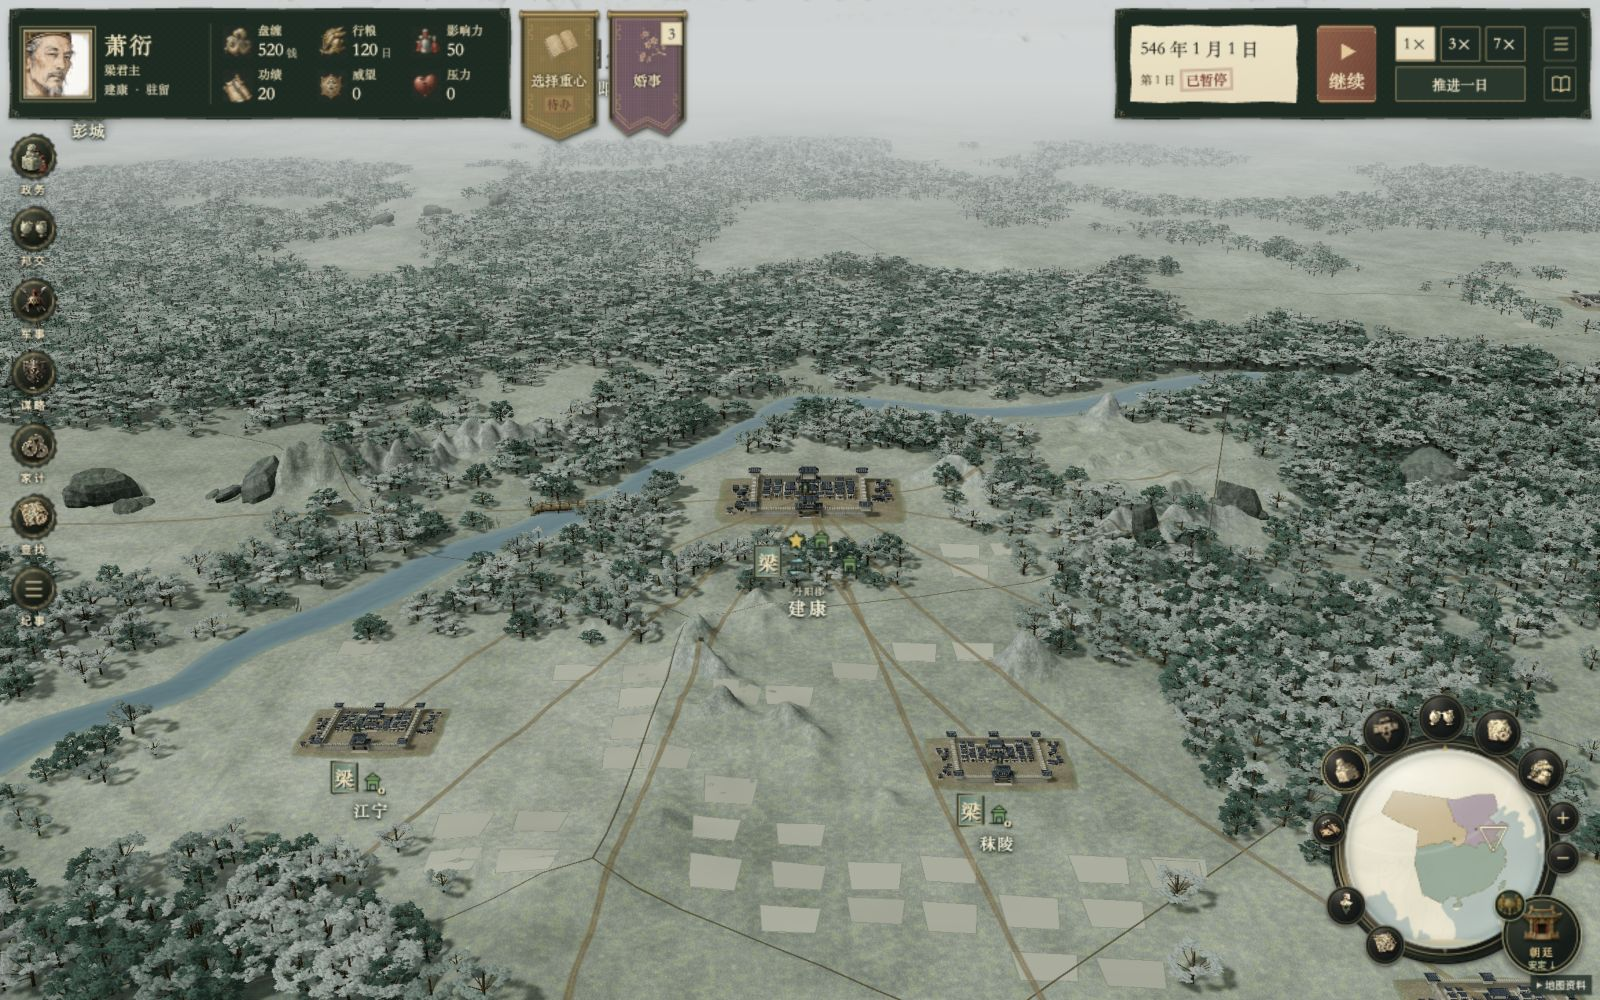
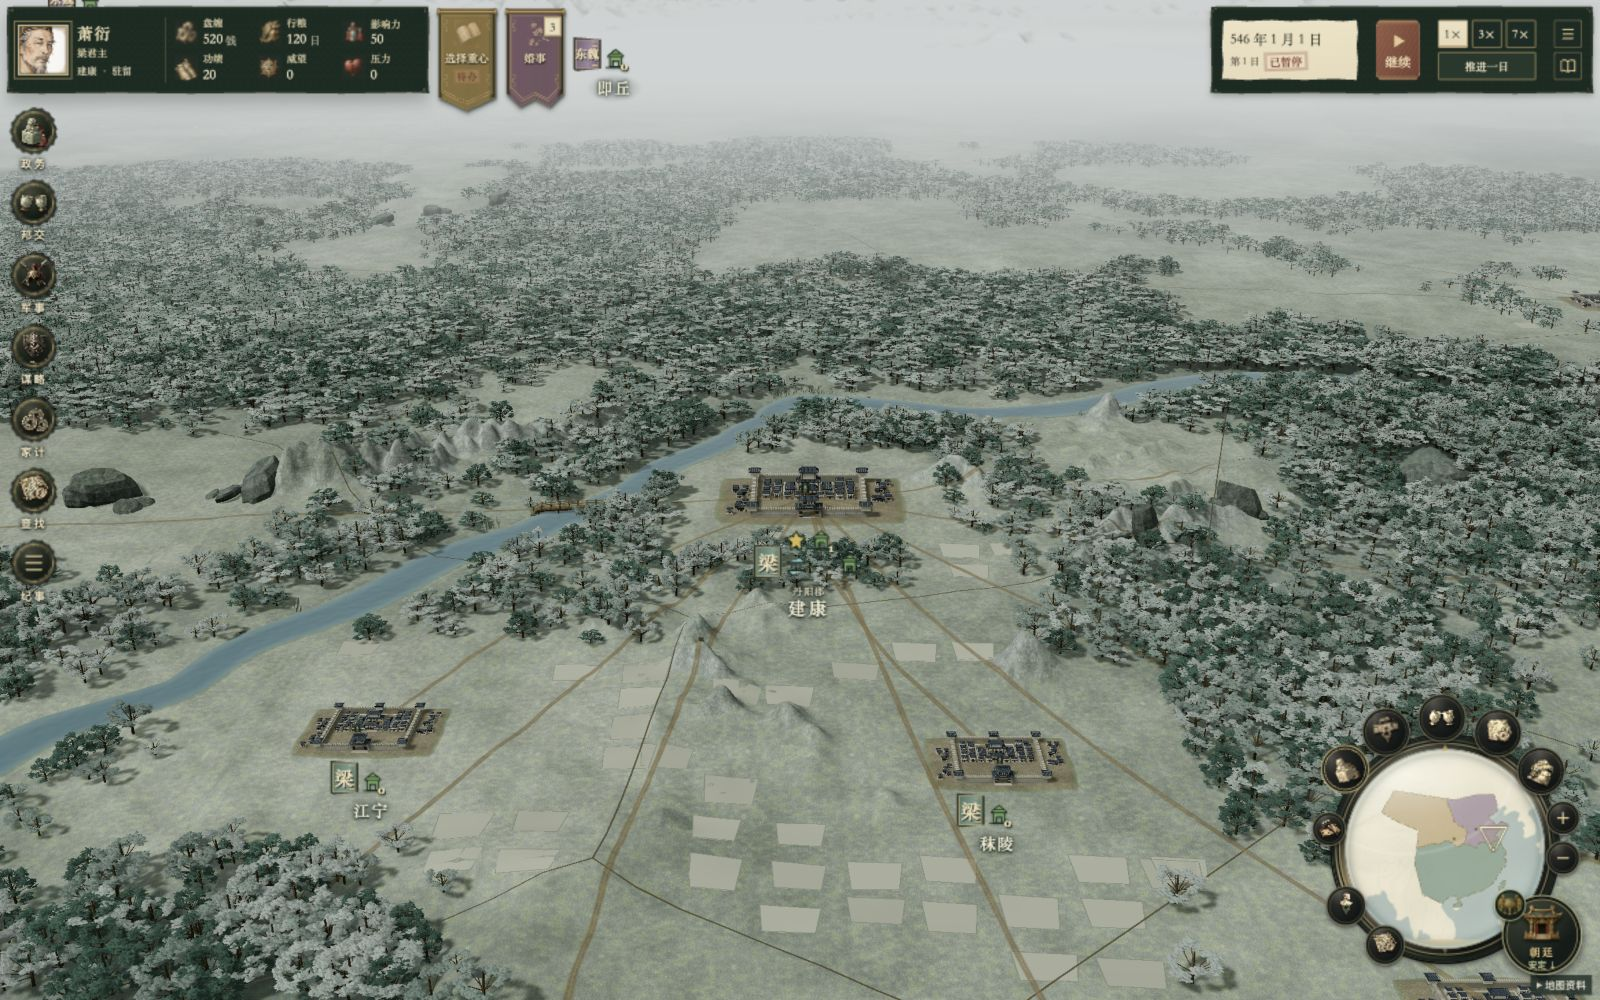
fix(ui): compact top HUD proportions and typography

Changed region(s): [[0.0, 0.0, 0.4375, 0.62], [0.6875, 0.0, 1.0, 0.124]]

diff --git a/src/ui/topHud.css b/src/ui/topHud.css
@@ -1,64 +1,65 @@
 /* Approved top-hud/components-v1: ink on cloth, calendar paper and restrained gilt. */
-.focused-shell :is(.sovereign-strip,.chronicle-control){top:10px;height:108px;min-height:108px;border:0;border-radius:0;background:none;box-shadow:none;border-image:url('/art/interface/top-hud-frame.svg') 28 fill / 18px / 4px stretch;color:#e9ddbd;padding:12px 14px;gap:12px;filter:drop-shadow(0 3px 3px #07130c44)}
-.focused-shell .sovereign-strip{left:10px;width:500px;max-width:calc(100vw - 20px)}
-.focused-shell .player-hud-identity{flex:0 0 174px;gap:12px;align-items:center;background:none;border:0;border-radius:0;box-shadow:none;min-height:78px}
+.focused-shell :is(.sovereign-strip,.chronicle-control){top:8px;height:84px;min-height:84px;border:0;border-radius:0;background:none;box-shadow:none;border-image:url('/art/interface/top-hud-frame.svg') 28 fill / 14px / 3px stretch;color:#e9ddbd;padding:10px;gap:9px;filter:drop-shadow(0 3px 3px #07130c44)}
+.focused-shell .sovereign-strip{left:8px;width:420px;max-width:calc(100vw - 20px)}
+.focused-shell .player-hud-identity{flex:0 0 138px;gap:9px;align-items:center;background:none;border:0;border-radius:0;box-shadow:none;min-height:60px}
 .focused-shell .player-hud-identity:hover{background:none;filter:brightness(1.12)}
-.focused-shell .player-hud-identity .painted-portrait.compact{width:68px;height:68px;flex:0 0 68px;aspect-ratio:1;border:1px solid #ddc28c;border-radius:0;box-shadow:0 0 0 3px #1b2b24,0 0 0 4px #ae9055}
+.focused-shell .player-hud-identity .painted-portrait.compact{width:50px;height:50px;flex:0 0 50px;aspect-ratio:1;border:1px solid #ddc28c;border-radius:0;box-shadow:0 0 0 3px #1b2b24,0 0 0 4px #ae9055}
 .focused-shell .player-hud-identity>span{display:grid;gap:5px;min-width:0}
-.focused-shell .player-hud-identity strong{font:23px/1.15 var(--serif);color:#f0dfb5;letter-spacing:2px;text-shadow:none}
-.focused-shell .player-hud-identity small{font:12px/1.25 var(--serif);color:#d2c7a8;white-space:nowrap}
+.focused-shell .player-hud-identity strong{font:16px/1.15 var(--serif);color:#f0dfb5;letter-spacing:1px;text-shadow:none}
+.focused-shell .player-hud-identity small{font:10px/1.25 var(--serif);color:#d2c7a8;white-space:nowrap}
 .focused-shell .player-hud-identity .player-hud-office{color:#e5d4a8}
-.focused-shell .sovereign-strip .realm-resources{display:grid;grid-template-columns:repeat(3,minmax(0,1fr));grid-template-rows:1fr 1fr;align-items:center;gap:8px 10px;margin:0;padding-left:12px;border-left:1px solid #b39a6060;flex:1;min-width:0}
+.focused-shell .sovereign-strip .realm-resources{display:grid;grid-template-columns:repeat(3,minmax(0,1fr));grid-template-rows:1fr 1fr;align-items:center;gap:5px 8px;margin:0;padding-left:9px;border-left:1px solid #b39a6060;flex:1;min-width:0}
 .focused-shell .sovereign-strip .art-resource{display:flex;gap:5px;min-width:0;padding:0;border:0}
 .hud-art{display:block;flex:none;overflow:hidden;mix-blend-mode:lighten}
-.focused-shell .sovereign-strip .hud-art{width:30px;height:32px}
+.focused-shell .sovereign-strip .hud-art{width:23px;height:25px}
 .focused-shell .sovereign-strip .art-resource-value{display:block;white-space:nowrap;font-variant-numeric:tabular-nums;line-height:1.1}
-.focused-shell .sovereign-strip .art-resource-value>small:not(.art-unit){display:block;font:12px/1.1 var(--serif);margin-bottom:3px;color:#d8c8a1}
-.focused-shell .sovereign-strip .art-resource-value>b{font:18px/1.1 var(--serif);color:#f0e3c4}
+.focused-shell .sovereign-strip .art-resource-value>small:not(.art-unit){display:block;font:10px/1.1 var(--serif);margin-bottom:3px;color:#d8c8a1}
+.focused-shell .sovereign-strip .art-resource-value>b{font:14px/1.1 var(--serif);color:#f0e3c4}
 .focused-shell .sovereign-strip .art-unit{display:inline;font:11px var(--serif);margin-left:3px;color:#dfd2af}
-.focused-shell .chronicle-control{right:10px;width:474px;gap:9px;justify-content:space-between}
-.focused-shell .chronicle-date{min-width:156px;max-width:168px;min-height:78px;align-content:center;gap:8px;padding:9px 10px;color:#292d22;background:linear-gradient(#eee1c1dc,#e7d8b6dc),url('/art/campaign/national-parchment.webp') center/550px;clip-path:polygon(1% 2%,7% 0,18% 2%,36% 0,51% 2%,71% 0,90% 2%,99% 0,100% 20%,99% 43%,100% 68%,99% 100%,82% 98%,61% 100%,38% 98%,19% 100%,0 98%,1% 72%,0 46%)}
-.focused-shell .chronicle-date>strong{white-space:nowrap;font:18px/1.3 var(--serif);color:#292d22}
-.focused-shell .chronicle-date>div{display:flex;flex-wrap:wrap;align-items:center;gap:5px;font:12px/1.3 var(--serif);color:#423c2c}
-.focused-shell .chronicle-date .clock-paused{padding:1px 3px;color:#8b4437;border:2px double #995447;font:700 14px/1.1 var(--serif);transform:rotate(-2deg)}
-.focused-shell .chronicle-date .clock-running{color:#475943;font:12px var(--serif)}
-.focused-shell .chronicle-control .clock-play:is(.is-paused,.is-running){flex:0 0 60px;width:60px;height:78px;min-height:78px;display:flex;flex-direction:column;justify-content:center;align-items:center;gap:7px;padding:8px;border:0;border-radius:0;box-shadow:none;border-image:url('/art/interface/operations-button-frame.svg') 12 / 8px / 0 stretch;background:repeating-linear-gradient(120deg,#f7daab0c 0 1px,transparent 1px 4px),linear-gradient(115deg,#965d46,#713f32);filter:none;clip-path:polygon(4px 0,calc(100% - 4px) 0,100% 4px,100% calc(100% - 4px),calc(100% - 4px) 100%,4px 100%,0 calc(100% - 4px),0 4px)}
-.focused-shell .clock-play svg{width:25px;height:25px;fill:#e7c895}
-.focused-shell .clock-play small{white-space:nowrap;font:18px/1 var(--serif);color:#f1dfb6}
-.focused-shell .chronicle-control .speed-dial{display:grid;grid-template-columns:repeat(3,40px);gap:5px}
-.focused-shell .chronicle-control .tally-speed{width:40px;min-width:40px;height:35px;min-height:35px;padding:3px;border:1px solid #ad925e;border-radius:2px;background:#1b2b24;box-shadow:none;font:16px var(--serif);color:#e9ddbd}
+.focused-shell .chronicle-control{right:8px;width:380px;gap:6px;justify-content:space-between}
+.focused-shell .chronicle-date{min-width:126px;max-width:136px;min-height:60px;align-content:center;gap:5px;padding:7px 8px;color:#292d22;background:linear-gradient(#eee1c1dc,#e7d8b6dc),url('/art/campaign/national-parchment.webp') center/550px;clip-path:polygon(1% 2%,7% 0,18% 2%,36% 0,51% 2%,71% 0,90% 2%,99% 0,100% 20%,99% 43%,100% 68%,99% 100%,82% 98%,61% 100%,38% 98%,19% 100%,0 98%,1% 72%,0 46%)}
+.focused-shell .chronicle-date>strong{white-space:nowrap;font:14px/1.3 var(--serif);color:#292d22}
+.focused-shell .chronicle-date>div{display:flex;flex-wrap:wrap;align-items:center;gap:5px;font:10px/1.3 var(--serif);color:#423c2c}
+.focused-shell .chronicle-date .clock-paused{padding:1px 3px;color:#8b4437;border:2px double #995447;font:700 11px/1.1 var(--serif);transform:rotate(-2deg)}
+.focused-shell .chronicle-date .clock-running{color:#475943;font:10px var(--serif)}
+.focused-shell .chronicle-control .clock-play:is(.is-paused,.is-running){flex:0 0 44px;width:44px;height:60px;min-height:60px;display:flex;flex-direction:column;justify-content:center;align-items:center;gap:5px;padding:6px;border:0;border-radius:0;box-shadow:none;border-image:url('/art/interface/operations-button-frame.svg') 12 / 8px / 0 stretch;background:repeating-linear-gradient(120deg,#f7daab0c 0 1px,transparent 1px 4px),linear-gradient(115deg,#965d46,#713f32);filter:none;clip-path:polygon(4px 0,calc(100% - 4px) 0,100% 4px,100% calc(100% - 4px),calc(100% - 4px) 100%,4px 100%,0 calc(100% - 4px),0 4px)}
+.focused-shell .clock-play svg{width:19px;height:19px;fill:#e7c895}
+.focused-shell .clock-play small{white-space:nowrap;font:13px/1 var(--serif);color:#f1dfb6}
+.focused-shell .chronicle-control .speed-dial{display:grid;grid-template-columns:repeat(3,30px);gap:4px}
+.focused-shell .chronicle-control .tally-speed{width:30px;min-width:30px;height:28px;min-height:28px;padding:3px;border:1px solid #ad925e;border-radius:2px;background:#1b2b24;box-shadow:none;font:12px var(--serif);color:#e9ddbd}
 .focused-shell .chronicle-control .tally-speed[aria-pressed=true]{background:linear-gradient(#eee1c1e8,#e7d8b6e8),url('/art/campaign/national-parchment.webp') center/500px;border-color:#c4a775;box-shadow:none;color:#292d22}
-.focused-shell .chronicle-control .clock-step{height:35px;min-height:35px;border:1px solid #ad925e;border-radius:2px;padding:4px 6px;background:#25372c;color:#e9ddbd;font:14px var(--serif)}
-.focused-shell .clock-utilities{gap:6px;padding:0;border:0}
-.focused-shell .chronicle-control .clock-utilities button{width:32px;height:34px;min-height:34px;padding:5px;border:1px solid #ad925e99;border-radius:2px;background:#1b2b24;box-shadow:none}
-.focused-shell .clock-utilities svg{width:22px;height:22px;stroke:#e1c78c}
+.focused-shell .chronicle-control .clock-step{height:28px;min-height:28px;border:1px solid #ad925e;border-radius:2px;padding:3px 4px;background:#25372c;color:#e9ddbd;font:11px var(--serif)}
+.focused-shell .clock-utilities{gap:4px;padding:0;border:0}
+.focused-shell .chronicle-control .clock-utilities button{width:28px;height:28px;min-height:28px;padding:4px;border:1px solid #ad925e99;border-radius:2px;background:#1b2b24;box-shadow:none}
+.focused-shell .clock-utilities svg{width:18px;height:18px;stroke:#e1c78c}
 .focused-shell .chronicle-control button:not(:disabled):hover{filter:brightness(1.15)}
 .focused-shell :is(.player-hud-identity,.chronicle-control button):focus-visible{outline:2px solid #d3b475;outline-offset:3px}
-.focused-shell .command-rail{margin-top:124px;max-height:calc(100% - 124px)}
+.focused-shell .command-rail{margin-top:98px;max-height:calc(100% - 98px)}
 
-.focused-shell .ongoing-flags{padding-top:10px}
-.focused-shell .ongoing-flag-entry>.hover-hint,.focused-shell .ongoing-flag-entry>.ongoing-flag,.focused-shell .ongoing-flag{height:132px}
+.focused-shell .ongoing-flags{padding-top:8px}
+.focused-shell .ongoing-flag-entry>.hover-hint,.focused-shell .ongoing-flag-entry>.ongoing-flag,.focused-shell .ongoing-flag{height:104px}
 .focused-shell .ongoing-flag{width:calc(100% - 4px);filter:drop-shadow(0 3px 2px #15201855);color:#f1e3bf}
-.focused-shell .ongoing-flag-content{inset:17px 8px 23px;gap:6px;background:none;text-shadow:0 1px 1px #22251d80}
-.focused-shell .ongoing-flag-seal{width:38px;height:38px;flex:0 0 38px;background:none;box-shadow:none}
-.focused-shell .ongoing-flag-name{font:14px/1.25 var(--serif);letter-spacing:0;overflow:hidden;max-width:100%}
-.focused-shell .ongoing-countdown{font:12px/1.2 var(--serif)}
-.focused-shell .ongoing-flag[data-todo=true] .ongoing-countdown{color:#6e332c;border:2px double #81483b;background:#d7b76d44;padding:1px 2px;font:700 12px/1.05 var(--serif);transform:rotate(-2deg);text-shadow:none}
+.focused-shell .ongoing-flag-content{inset:12px 6px 18px;gap:3px;background:none;text-shadow:0 1px 1px #22251d80}
+.focused-shell .ongoing-flag-seal{width:28px;height:28px;flex:0 0 28px;background:none;box-shadow:none}
+.focused-shell .ongoing-flag-content .hud-art{width:28px;height:28px}
+.focused-shell .ongoing-flag-name{font:11px/1.25 var(--serif);letter-spacing:0;overflow:hidden;max-width:100%}
+.focused-shell .ongoing-countdown{font:10px/1.2 var(--serif)}
+.focused-shell .ongoing-flag[data-todo=true] .ongoing-countdown{color:#6e332c;border:2px double #81483b;background:#d7b76d44;padding:1px 2px;font:700 10px/1.05 var(--serif);transform:rotate(-2deg);text-shadow:none}
 .focused-shell .ongoing-progress{display:flex;align-items:center;gap:3px;width:100%;font:10px/1 var(--serif)}
 .focused-shell .ongoing-progress .ongoing-meter{flex:1;height:5px;border-color:#d6c38c99;border-radius:0}
 .focused-shell .ongoing-meter i{background:#ddcc99}
-.focused-shell .ongoing-flag-count{top:12px;right:5px;min-width:21px;height:23px;border:1px solid #af965e;border-radius:0;background:#e9ddbd;color:#332e22;font:16px var(--serif);box-shadow:0 1px 3px #20231955}
-.focused-shell .ongoing-war-flag .ongoing-flag-content{gap:3px;inset:13px 7px 19px}
+.focused-shell .ongoing-flag-count{top:9px;right:4px;min-width:17px;height:19px;border:1px solid #af965e;border-radius:0;background:#e9ddbd;color:#332e22;font:12px var(--serif);box-shadow:0 1px 3px #20231955}
+.focused-shell .ongoing-war-flag .ongoing-flag-content{gap:2px;inset:10px 5px 16px}
 .focused-shell .ongoing-war-flag .realm-flag{position:absolute;top:0;left:-1px;width:15px;height:18px;opacity:.8}
 .focused-shell .ongoing-war-flag .realm-flag svg{width:15px;height:18px}
-.focused-shell .ongoing-war-score{font:16px/1 var(--serif);color:#f0d9b3}
+.focused-shell .ongoing-war-score{font:13px/1 var(--serif);color:#f0d9b3}
 .focused-shell .ongoing-war-score[data-positive=true]{color:#f0d9b3}
 .focused-shell .ongoing-war-flag .ongoing-countdown{font-size:10px;letter-spacing:-.2px}
-.focused-shell .ongoing-flags[data-compact=true] .ongoing-flag{height:111px}
-.focused-shell .ongoing-flags[data-compact=true] .ongoing-flag-entry>.hover-hint{height:111px}
-.focused-shell .ongoing-flags[data-compact=true] .ongoing-flag-content{inset:15px 3px 15px;gap:4px}
-.focused-shell .ongoing-flags[data-compact=true] .ongoing-flag-seal{width:30px;height:30px;flex-basis:30px}
-.focused-shell .ongoing-flags[data-compact=true] .hud-art{width:30px;height:30px}
+.focused-shell .ongoing-flags[data-compact=true] .ongoing-flag{height:96px}
+.focused-shell .ongoing-flags[data-compact=true] .ongoing-flag-entry>.hover-hint{height:96px}
+.focused-shell .ongoing-flags[data-compact=true] .ongoing-flag-content{inset:12px 3px 12px;gap:3px}
+.focused-shell .ongoing-flags[data-compact=true] .ongoing-flag-seal{width:25px;height:25px;flex-basis:25px}
+.focused-shell .ongoing-flags[data-compact=true] .hud-art{width:25px;height:25px}
 .focused-shell .ongoing-flags[data-compact=true] .ongoing-progress small{display:none}
 
 dialog.paper-dialog.ongoing-group-dialog[data-anchored]{--dialog-ink:#332f24;--dialog-muted:#71644b;width:min(400px,calc(100vw - 24px));padding:12px 14px;border:1px solid #8b754d;border-radius:2px;background:linear-gradient(#eee1c1e8,#e7d8b6e8),url('/art/campaign/national-parchment.webp') center/600px;color:var(--dialog-ink);box-shadow:0 5px 16px #14221766;max-height:65dvh}
@@ -78,12 +79,21 @@ dialog.paper-dialog.ongoing-group-dialog[data-anchored] .ongoing-group-clock{gri
 dialog.paper-dialog.ongoing-group-dialog[data-anchored] .ongoing-group-actions{grid-column:2;grid-row:2;margin:0}
 dialog.paper-dialog.ongoing-group-dialog[data-anchored] .ongoing-group-actions button{min-width:64px;min-height:34px;padding:5px 8px;background:#23372c;border:0;border-image:url('/art/interface/operations-button-frame.svg') 12 / 8px / 0 stretch;border-radius:0;color:#ead9b1;font:14px var(--serif)}
 dialog.paper-dialog.ongoing-group-dialog[data-anchored] button:focus-visible{outline:2px solid #874d3c;outline-offset:2px}
-@media(max-width:1100px){
- .focused-shell .sovereign-strip{width:470px;gap:8px;padding-inline:12px}.focused-shell .player-hud-identity{flex-basis:157px;gap:9px}.focused-shell .player-hud-identity .painted-portrait.compact{width:60px;height:60px;flex-basis:60px}.focused-shell .chronicle-control{width:438px;gap:7px;padding-inline:10px}.focused-shell .chronicle-date{min-width:140px;padding-inline:7px}.focused-shell .chronicle-date>strong{font-size:16px}.focused-shell .chronicle-control .clock-play:is(.is-paused,.is-running){width:54px;flex-basis:54px}.focused-shell .chronicle-control .speed-dial{grid-template-columns:repeat(3,36px)}.focused-shell .chronicle-control .tally-speed{width:36px;min-width:36px}
-}
-@media(max-width:950px){
- .focused-shell :is(.sovereign-strip,.chronicle-control){position:absolute;height:108px;min-height:108px;width:calc(50% - 16px);padding:10px;gap:7px}.focused-shell .player-hud-identity{flex:0 0 122px;flex-direction:row;gap:7px}.focused-shell .player-hud-identity .painted-portrait.compact{width:48px;height:48px;flex-basis:48px}.focused-shell .player-hud-identity strong{font-size:18px}.focused-shell .player-hud-identity small{font-size:10px}.focused-shell .sovereign-strip .realm-resources{gap:8px 5px;padding-left:7px}.focused-shell .sovereign-strip .hud-art{width:20px;height:25px}.focused-shell .sovereign-strip .art-resource-value>b{font-size:16px}.focused-shell .sovereign-strip .art-resource-value>small:not(.art-unit){font-size:10px}.focused-shell .chronicle-date{min-width:116px;max-width:130px;padding:7px}.focused-shell .chronicle-date>strong{font-size:14px}.focused-shell .chronicle-date>div{font-size:10px}.focused-shell .chronicle-control .speed-dial{grid-template-columns:repeat(3,28px);gap:3px}.focused-shell .chronicle-control .tally-speed{width:28px;min-width:28px;font-size:13px}.focused-shell .chronicle-control .clock-play:is(.is-paused,.is-running){width:42px;flex-basis:42px}.focused-shell .clock-play small{font-size:15px}.focused-shell .chronicle-control .clock-utilities button{width:28px;min-width:28px;padding:4px}.focused-shell .chronicle-control .clock-step{font-size:11px;padding-inline:2px}
+@media(max-width:850px){
+ .focused-shell :is(.sovereign-strip,.chronicle-control){width:calc(50% - 14px);gap:6px;padding:8px}
+ .focused-shell .player-hud-identity{flex:0 0 118px;flex-direction:row;gap:7px}
+ .focused-shell .player-hud-identity .painted-portrait.compact{width:42px;height:42px;flex-basis:42px}
+ .focused-shell .player-hud-identity strong{font-size:16px}
+ .focused-shell .sovereign-strip .realm-resources{gap:5px;padding-left:7px}
+ .focused-shell .sovereign-strip .hud-art{width:20px;height:23px}
+ .focused-shell .chronicle-date{min-width:112px;max-width:124px;padding-inline:6px}
+ .focused-shell .chronicle-date>strong{font-size:13px}
+ .focused-shell .chronicle-control .clock-play:is(.is-paused,.is-running){width:40px;flex-basis:40px}
+ .focused-shell .chronicle-control .speed-dial{grid-template-columns:repeat(3,28px);gap:3px}
+ .focused-shell .chronicle-control .tally-speed{width:28px;min-width:28px}
 }
 @media(max-width:720px){
- .focused-shell .sovereign-strip{width:calc(100% - 20px)}.focused-shell .chronicle-control{top:126px;left:78px;right:10px;width:auto}.focused-shell .player-hud-identity{flex-basis:150px}.focused-shell .sovereign-strip .hud-art{width:27px;height:30px}.focused-shell .chronicle-control .speed-dial{grid-template-columns:repeat(3,34px)}.focused-shell .chronicle-control .tally-speed{width:34px;min-width:34px}
+ .focused-shell .sovereign-strip{width:calc(100% - 16px)}
+ .focused-shell .chronicle-control{top:100px;left:78px;right:8px;width:auto}
+ .focused-shell .player-hud-identity{flex-basis:138px}
 }

diff --git a/src/ui/flagLayout.test.ts b/src/ui/flagLayout.test.ts
@@ -1,6 +1,6 @@
 import {describe,it,expect} from 'vitest';
 import {flagLayout} from './flagLayout';
 describe('fixed-span flag packing',()=>{
- it('never extends the row beyond the available span and retains exposed targets at high density',()=>{for(const width of [180,320,600,900])for(const count of [1,5,12,30,80]){const {columns,slot}=flagLayout(width,count);expect(columns*slot).toBeLessThanOrEqual(width);expect(slot).toBeGreaterThanOrEqual(32);expect(slot).toBeLessThanOrEqual(84);expect(columns).toBeLessThanOrEqual(count);}});
+ it('never extends the row beyond the available span and retains exposed targets at high density',()=>{for(const width of [180,320,600,900])for(const count of [1,5,12,30,80]){const {columns,slot}=flagLayout(width,count);expect(columns*slot).toBeLessThanOrEqual(width);expect(slot).toBeGreaterThanOrEqual(32);expect(slot).toBeLessThanOrEqual(64);expect(columns).toBeLessThanOrEqual(count);}});
  it('has a finite layout before measurement and for an empty row',()=>{expect(flagLayout(0,0)).toEqual({columns:1,slot:1});});
 });

diff --git a/src/ui/flagLayout.ts b/src/ui/flagLayout.ts
@@ -1,5 +1,5 @@
 /** A fixed available span, with at least 32px of exposed target per flag before wrapping. */
 export function flagLayout(width:number,count:number){
  const available=Math.max(1,width),columns=Math.max(1,Math.min(count,Math.floor(available/32)));
- return {columns,slot:Math.min(84,Math.floor(available/columns))};
+ return {columns,slot:Math.min(64,Math.floor(available/columns))};
 }

diff --git a/docs/art-direction/top-hud/README.md b/docs/art-direction/top-hud/README.md
@@ -34,3 +34,9 @@
 - 局部测试 `topHud.test.tsx`、`flagLayout.test.ts`、`ongoing.test.ts` 共 23 项通过，覆盖资源／身份读取、时间锁定、等待无假进度、行旅进度、事项投影和密集排旗；`npm run build` 通过，含 854 项发布资源核验。未执行全量或长局回归。
 - 当前存档没有进行中工程和战争，相关计时与投影由局部测试／代码核对覆盖，未冒充实机战争验证。运行速度状态由组件渲染测试覆盖，实机始终暂停。
 - 实机：[整体](../../images/top-hud/overview.png)、[事项纸笺](../../images/top-hud/pending-list.png)。目标图是放大的组件设计板，实际组件按游戏 HUD 尺度排布，最终审美仍由用户确认。
+
+### 顶部比例收紧
+
+用户反馈三组组件过大后，将左右面板从 108px 收至 84px，宽度从 500／474px 收至 420／380px；旗帜高度从 132px 收至 104px，最大间距从 84px 收至 64px。姓名为 16px、资源和日期为 14px、操作为 11–13px、辅助文字为 10–11px，头像与插画同步缩小。保留原材质、边框及操作语义，并上移左侧导航以减少顶部占用。
+
+1600×1000、900×900 实机检查无横向溢出或组件碰撞；已更新整体图，事项纸笺截图保留上轮记录。密集排旗的 2 项局部测试及 `npm run build` 通过。本轮只改比例与排布，未推进时间，最终比例待用户确认。
